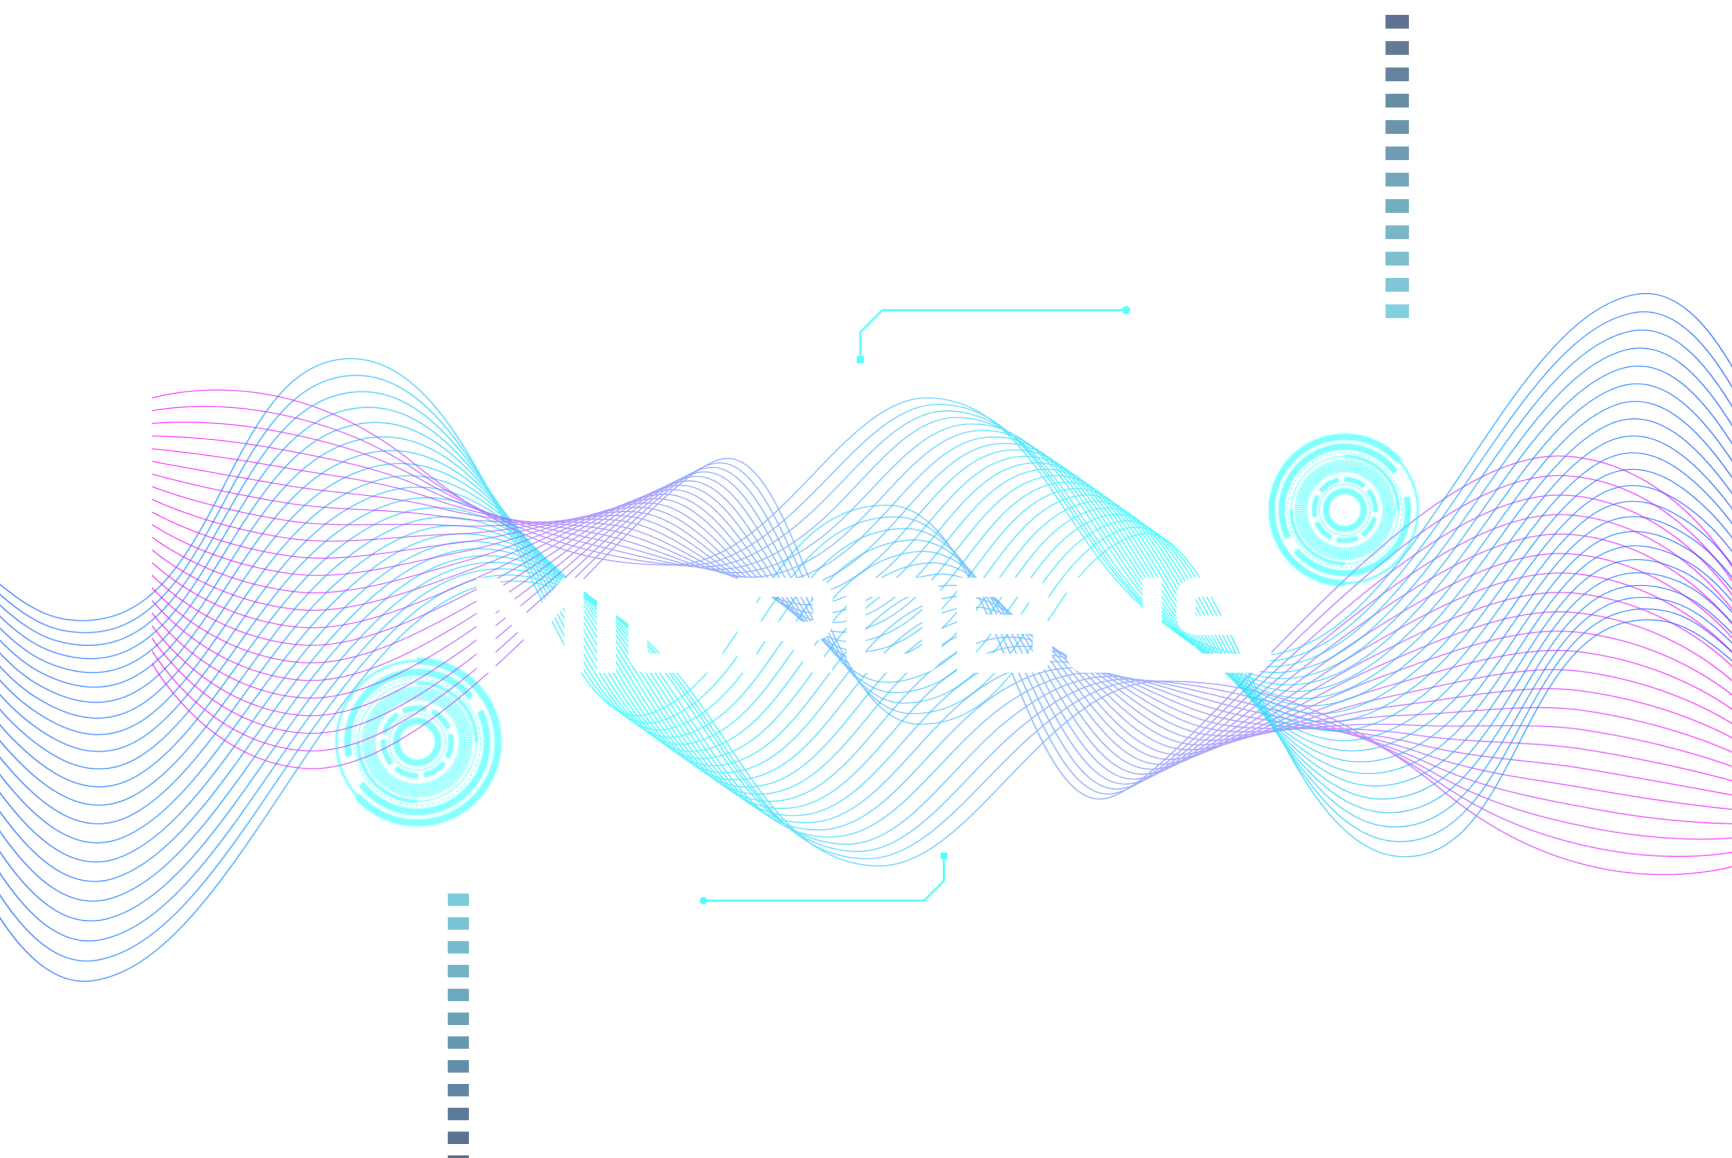
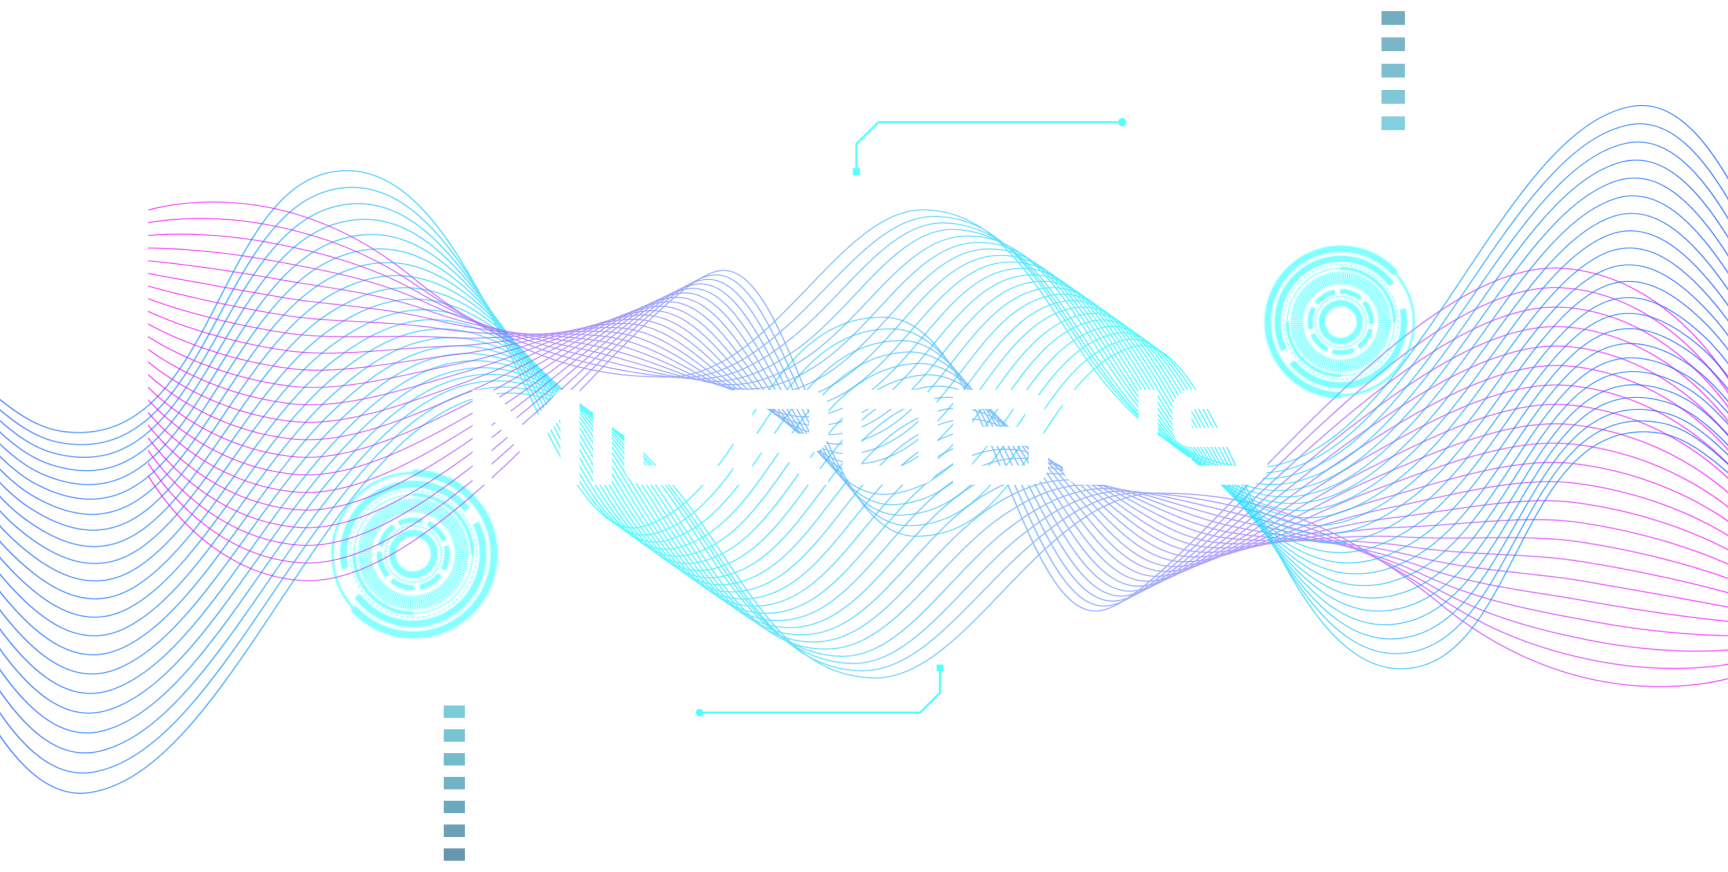
team details added

Changed region(s): [[0.0, 0.0, 1.0, 0.8979], [0.25, 0.7741, 0.2812, 1.0], [0.5, 0.1239, 0.6562, 0.1548]]

diff --git a/src/components/TeamPage.jsx b/src/components/TeamPage.jsx
@@ -3,40 +3,24 @@ import "../styles/TeamPage.scss";
 import Card from "./Card";
 
 const developers = [
-  // {
-  //   image: "/assets/slider/image2.png",
-  //   name: "Sanchit Beniwal",
-  //   designation: "Tech Lead",
-  //   linkedinURL: "",
-  //   instaURL: "",
-  //   githubURL: "",
-  // },
+  //  {
+  //    image: "/assets/team/sanchit1.png",
+  //    name: "Sanchit Beniwal",
+  //    designation: "Tech Lead",
+  //    linkedinURL: "",
+  //    instaURL: "",
+  //    githubURL: "",
+  //  },
   {
-    image: "/assets/slider/image2.png",
+    image: "/assets/team/rahul.png",
     name: "Rahul Pant",
     designation: "Developer",
-    linkedinURL: "",
-    instaURL: "",
+    linkedinURL: "https://www.linkedin.com/in/rahul-pant-266130217?utm_source=share&utm_campaign=share_via&utm_content=profile&utm_medium=android_app",
+    instaURL: "https://www.instagram.com/rahulpant14?igsh=MTJsMHg5YnU2ZnNjbw==",
     githubURL: "",
   },
   {
-    image: "/assets/slider/image2.png",
-    name: "Suman",
-    designation: "Developer",
-    linkedinURL: "",
-    instaURL: "",
-    githubURL: "",
-  },
-  {
-    image: "/assets/slider/image2.png",
-    name: "Punit Garg",
-    designation: "Developer",
-    linkedinURL: "",
-    instaURL: "",
-    githubURL: "",
-  },
-  {
-    image: "/assets/slider/image2.png",
+    image: "/assets/team/raghav.png",
     name: "Raghav Garg",
     designation: "Developer",
     linkedinURL: "https://www.linkedin.com/in/raghav-garg-66356a220/",
@@ -44,130 +28,122 @@ const developers = [
     githubURL: "https://github.com/Raghav0407",
   },
   {
-    image: "/assets/slider/image2.png",
+    image: "/assets/team/suman.png",
+    name: "Suman",
+    designation: "Developer",
+    linkedinURL: "https://www.linkedin.com/in/suman-thakur-726447202/",
+    instaURL: "",
+    githubURL: "",
+  },
+  {
+    image: "/assets/team/punit.png",
+    name: "Punit Garg",
+    designation: "Developer",
+    linkedinURL: "https://www.linkedin.com/in/punit-garg-b5a816200?utm_source=share&utm_campaign=share_via&utm_content=profile&utm_medium=android_app",
+    instaURL: "https://www.instagram.com/puneetgarg9349/",
+    githubURL: "",
+  },
+  {
+    image: "/assets/team/keshav.png",
     name: "Keshav Garg",
     designation: "Developer",
     linkedinURL: "https://www.linkedin.com/in/keshav-garg-773026221?utm_source=share&utm_campaign=share_via&utm_content=profile&utm_medium=android_app",
     instaURL: "https://instagram.com/keshavgarg0407?igshid=NGVhN2U2NjQ0Yg==",
     githubURL: "https://github.com/KarGitH",
   },
+   {
+     image: "/assets/team/dinesh.png",
+     name: "G Dinesh Surya",
+     designation: "Developer",
+     linkedinURL: "https://www.linkedin.com/in/gidijala-dinesh-surya/",
+     instaURL: "https://www.instagram.com/roiyaru_ryuga/",
+     githubURL: "",
+   },
   // {
-  //   image: "/assets/slider/image2.png",
-  //   name: "Dinesh",
-  //   designation: "Developer",
-  //   linkedinURL: "",
-  //   instaURL: "",
-  //   githubURL: "",
-  // },
-  // {
-  //   image: "/assets/slider/image2.png",
+  //   image: "/assets/team/himanshu.png",
   //   name: "Himanshu",
   //   designation: "Developer",
   //   linkedinURL: "",
   //   instaURL: "",
   //   githubURL: "",
   // },
-  // {
-  //   image: "/assets/slider/image2.png",
-  //   name: "Yujit",
-  //   designation: "Developer",
-  //   linkedinURL: "",
-  //   instaURL: "",
-  //   githubURL: "",
-  // },
-  // {
-  //   image: "/assets/slider/image2.png",
-  //   name: "Akshat",
-  //   designation: "Developer",
-  //   linkedinURL: "https://www.linkedin.com/in/akshat-mangal-812aba223/",
-  //   instaURL: "https://www.instagram.com/akshat209141/",
-  //   githubURL: "https://github.com/akshat209141",
-  // },
+   {
+     image: "/assets/team/yujit.png",
+     name: "Yujit",
+     designation: "Developer",
+     linkedinURL: "",
+     instaURL: "",
+     githubURL: "",
+   },
+   {
+     image: "/assets/team/akshat.png",
+     name: "Akshat",
+     designation: "Developer",
+     linkedinURL: "https://www.linkedin.com/in/akshat-mangal-812aba223/",
+     instaURL: "https://www.instagram.com/akshat209141/",
+     githubURL: "https://github.com/akshat209141",
+   },
   // Add more developers as needed
 ];
 
 const designers = [
-  {
-    image: "/assets/slider/image2.png",
-    name: "Shatakshi",
-    designation: "Design Lead",
-    linkedinURL: "",
-    instaURL: "",
-    githubURL: "",
-  },
-  {
-    image: "/assets/slider/image2.png",
-    name: "Mohit",
-    designation: "Photography Lead",
-    linkedinURL: "",
-    instaURL: "",
-    githubURL: "",
-  },
-  {
-    image: "/assets/slider/image2.png",
-    name: "Vidisha Nama",
-    designation: "Designer",
-    linkedinURL: "",
-    instaURL: "",
-    githubURL: "",
-  },
-  {
-    image: "/assets/slider/image2.png",
-    name: "Rishika",
-    designation: "Designer",
-    linkedinURL: "",
-    instaURL: "",
-    githubURL: "",
-  },
-  {
-    image: "/assets/slider/image2.png",
-    name: "Akhilesh",
-    designation: "Designer",
-    linkedinURL: "https://www.linkedin.com/in/akhilesh-sangwan-2ab9b5232/",
-    instaURL: "",
-    githubURL: "https://github.com/Akhilesh8783",
-  },
+   {
+     image: "/assets/team/shatakshi.png",
+     name: "Shatakshi",
+     designation: "Designer",
+     linkedinURL: "https://www.linkedin.com/in/shatakshi-s-523a9121b",
+     instaURL: "",
+     githubURL: "",
+   },
+    {
+      image: "/assets/team/mohit.png",
+      name: "Mohit",
+      designation: "Designer",
+      linkedinURL: "",
+      instaURL: "",
+      githubURL: "",
+    },
+    {
+      image: "/assets/team/akhilesh.png",
+      name: "Akhilesh",
+      designation: "Designer",
+      linkedinURL: "https://www.linkedin.com/in/akhilesh-sangwan-2ab9b5232/",
+      instaURL: "https://www.instagram.com/akhil02723?igsh=MW54Mzg3Nng1Zm9scA==",
+      githubURL: "https://github.com/Akhilesh8783",
+    },
+  //  {
+  //    image: "/assets/team/vidisha.png",
+  //    name: "Vidisha Nama",
+  //    designation: "Designer",
+  //    linkedinURL: "",
+  //    instaURL: "",
+  //    githubURL: "",
+  //  },
+  //  {
+  //    image: "/assets/team/rishika.png",
+  //    name: "Rishika",
+  //    designation: "Designer",
+  //    linkedinURL: "",
+  //    instaURL: "",
+  //    githubURL: "",
+  //  },
   // Add more designers as needed
 ];
 
 const sponsers = [
   {
-    image: "/assets/slider/image2.png",
+    image: "/assets/team/ankit.png",
     name: "Ankit Yadav",
     designation: "Sponsy Lead",
-    linkedinURL: "",
-    instaURL: "",
+    linkedinURL: "https://www.linkedin.com/in/ankit-yadav-15479a256",
+    instaURL: "https://www.instagram.com/ankit47_47?igsh=ajhvbmJlZm5pcGQw",
     githubURL: "",
   },
   {
-    image: "/assets/slider/image2.png",
-    name: "Jane Doe",
+    image: "/assets/team/ashish.png",
+    name: "Ashish Singla",
     designation: "Designer",
-    linkedinURL: "",
-    instaURL: "",
-    githubURL: "",
-  },
-  {
-    image: "/assets/slider/image2.png",
-    name: "Jane Doe",
-    designation: "Designer",
-    linkedinURL: "",
-    instaURL: "",
-    githubURL: "",
-  },
-  {
-    image: "/assets/slider/image2.png",
-    name: "Jane Doe",
-    designation: "Designer",
-    linkedinURL: "",
-    instaURL: "",
-    githubURL: "",
-  },
-  {
-    image: "/assets/slider/image2.png",
-    name: "Jane Doe",
-    designation: "Designer",
-    linkedinURL: "",
+    linkedinURL: "https://www.linkedin.com/in/ashish-singla-832890236/",
     instaURL: "",
     githubURL: "",
   },
@@ -196,7 +172,7 @@ const TeamPage = () => {
       </div>
       <br />
       <br />
-      {/* <div className="team-container">
+      <div className="team-container">
         <h3 className="heading1">Designers</h3>
         <div className="allCards">
           {designers.map((member, index) => (
@@ -211,10 +187,10 @@ const TeamPage = () => {
             />
           ))}
         </div>
-      </div> */}
+      </div>
       <br />
       <br />
-      {/* <div className="team-container">
+      <div className="team-container">
         <h3 className="heading1">Sponsy Team</h3>
         <div className="allCards">
           {sponsers.map((member, index) => (
@@ -229,7 +205,7 @@ const TeamPage = () => {
             />
           ))}
         </div>
-      </div> */}
+      </div>
     </div>
   );
 };

diff --git a/src/styles/card.scss b/src/styles/card.scss
@@ -1,11 +1,11 @@
 .card {
   display: inline-block;
-  width: 15%;
+  width: 18%;
   border: 1px solid white;
   box-shadow: 0 4px 8px rgba(0, 0, 0, 0.1);
   border-radius: 8px;
   overflow: hidden;
-  margin:25px 30px; /* Add right margin for spacing between cards */
+  margin:25px 3.5%; /* Add right margin for spacing between cards */
   border-radius: 1.1875rem;
   border: 2px solid white;
   background: rgba(255, 255, 255, 0.11);
@@ -14,12 +14,13 @@
 
 .card-image {
   width: 100%;
-  aspect-ratio: 0.94;
+  aspect-ratio: 0.85;
   object-fit: cover;
 }
 
 .card-details {
   padding: 5%;
+  margin-top: -6.2px;
   text-align: center;
   background-color: white;
   fill: #00907F;
@@ -42,7 +43,7 @@
 
 .profile-url {
   display: flex;
-  width: 60%;
+  width: 35%;
   flex-direction: row;
   align-items: center;
   justify-content: space-around;
@@ -57,6 +58,7 @@
 @media (max-width: 900px) {
   .card {
     width: 21%;
+    margin: 25px 6%;
   }
 
   .card-title {
@@ -71,6 +73,7 @@
 @media (max-width: 550px) {
   .card {
     width: 30%;
+    margin: 25px 10%;
   }
 
   .card-title {

diff --git a/src/components/Card.jsx b/src/components/Card.jsx
@@ -15,7 +15,7 @@ const Card = ({ image, name, designation, linkedinURL, instaURL, githubURL }) =>
         <div className="profile-url">
           <div className="linkedin"><a href={linkedinURL}><img src="./assets/linkedinBlack.png" alt=""/></a></div>
           <div className="insta"><a href={instaURL}><img src="./assets/instaBlack.png" alt="" /></a></div>
-          <div className="github"><a href={githubURL}><img src="./assets/github.png" alt="" /></a></div>
+          {/* <div className="github"><a href={githubURL}><img src="./assets/github.png" alt="" /></a></div> */}
         </div>
       </div>
     </div>

diff --git a/src/components/Home.jsx b/src/components/Home.jsx
@@ -22,7 +22,7 @@ const Home = () => {
     
       <div className="homeImage">
         {/* <Slider images={images} /> */}
-        <img src="/./assets/landing bg.png" alt="" />
+        <img src="/./assets/landing bg1.png" alt="" />
       </div>
 
       <div className="home_about" id="about">

diff --git a/src/styles/TeamPage.scss b/src/styles/TeamPage.scss
@@ -52,7 +52,7 @@ h3 {
   flex-direction: row;
   flex-wrap: wrap;
   align-items: center;
-  justify-content: space-between;
+  justify-content: left;
   flex-wrap: wrap;
 }
 
